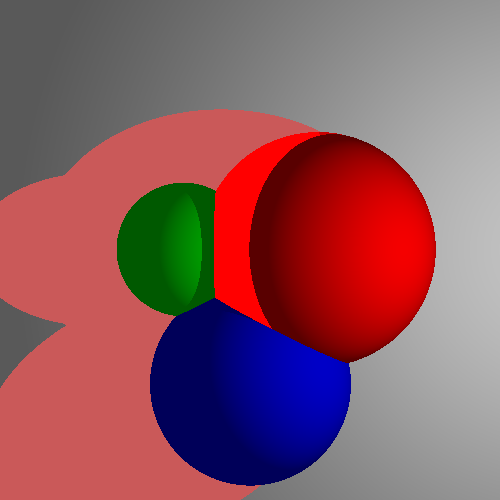
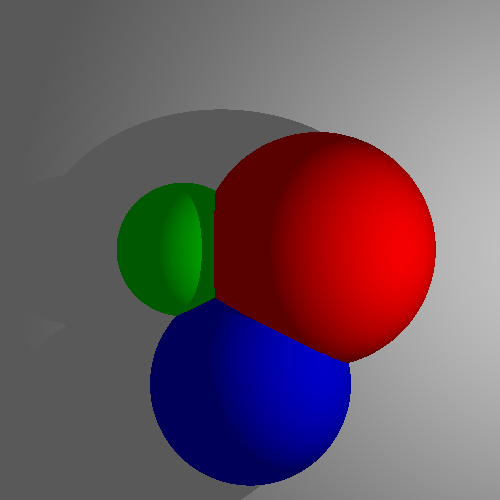
Cleaning up code

Changed region(s): [[0.0, 0.21, 0.66, 1.0]]

diff --git a/raytrace.py b/raytrace.py
@@ -157,8 +157,8 @@ def trace(ray, objects, light, maxRecur):
 
     # set up diffuse
     ambient = Vector(.1, .1, .1)
-    diffuse = Vector(.5, 0, 0)
-	
+    diffuse = Vector(0, 0, 0)
+
     lightDiffuse = Vector(0, 0, 0)
     toLight = light.direction.toScaled(-1)
     product = toLight.dot(intersect.n)
@@ -174,19 +174,20 @@ def trace(ray, objects, light, maxRecur):
     color = ambient.__add__(diffuse)
     # print("Ambient and diffuse x: ", color.x)
     # print("Ambient and diffuse y: ", color.y)
-    # print("Ambient and diffuse z: ", color.z)  
+    # print("Ambient and diffuse z: ", color.z)
 
+    # if it is the shadow
     if intersect.d == -1:
-        col = Vector(color, color, color)
+        col = Vector(.1, .1, .1)
 
+    # takes care of the shadows (but not ground shadow)
     elif intersect.n.dot(light.direction - intersect.p) < 0:
-    	col = intersect.obj.col.simpleMultiply(color)
-    	# print("Multiply intersect object color and color x: ", color.x)
-    	# print("Multiply intersect object color and color y: ", color.y)
-    	# print("Multiply intersect object color and color z: ", color.z)
+        col = intersect.obj.col.simpleMultiply(color)
+        # print("Multiply intersect object color and color x: ", color.x)
+        # print("Multiply intersect object color and color y: ", color.y)
+        # print("Multiply intersect object color and color z: ", color.z)
 
     else:
-        # finding normal of the ray
         lightRay = Ray(intersect.p, (light.direction-intersect.p).normal())
         if testRay(lightRay, objects, intersect.obj).d == -1:
             lightIntensity = 1000.0 / \
@@ -227,8 +228,6 @@ lightSource = Vector(10, 0, 0)  # light position
 lightColor = Vector(255, 0, 0)  # light color
 
 light = DirectionalLight(lightColor, 1, lightSource)
-light2 = DirectionalLight(Vector(0, 0, 255), 1, Vector(1, 0, 0))
-
 
 img = Image.new("RGB", (500, 500))
 cameraPos = Vector(0, 0, 20)
